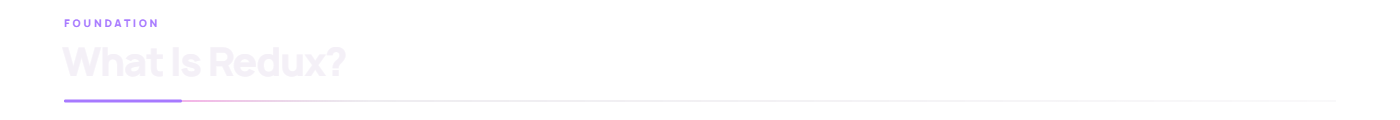
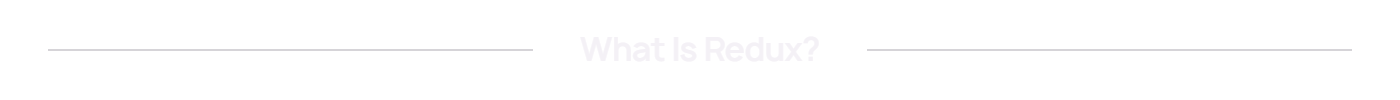
docs: use centered Nexus description dividers
<!-- redux:no-announce -->

diff --git a/docs/assets/nexus-description/README.md b/docs/assets/nexus-description/README.md
@@ -2,10 +2,10 @@
 
 These images are the code-rendered section dividers used by the public BG3 Mod Manager Redux Nexus Mods description.
 
-- Canvas: 1400 × 120 transparent PNG
+- Canvas: 1400 × 100 transparent PNG
 - Typography: Manrope
-- Style: text-only editorial layout with a small context label and thin semantic rule
-- No logo, illustration, card, glow, or section numbering
+- Style: centered Manrope section titles between two balanced neutral hairlines
+- No logo, illustration, card, glow, color accent, or section numbering
 - Naming and order follow the current Nexus description sections
 
 The editable SVG sources and deterministic renderer are maintained with the project’s external promotional source assets. Keep these public PNG paths stable because the Nexus description links to their `raw.githubusercontent.com` URLs.
